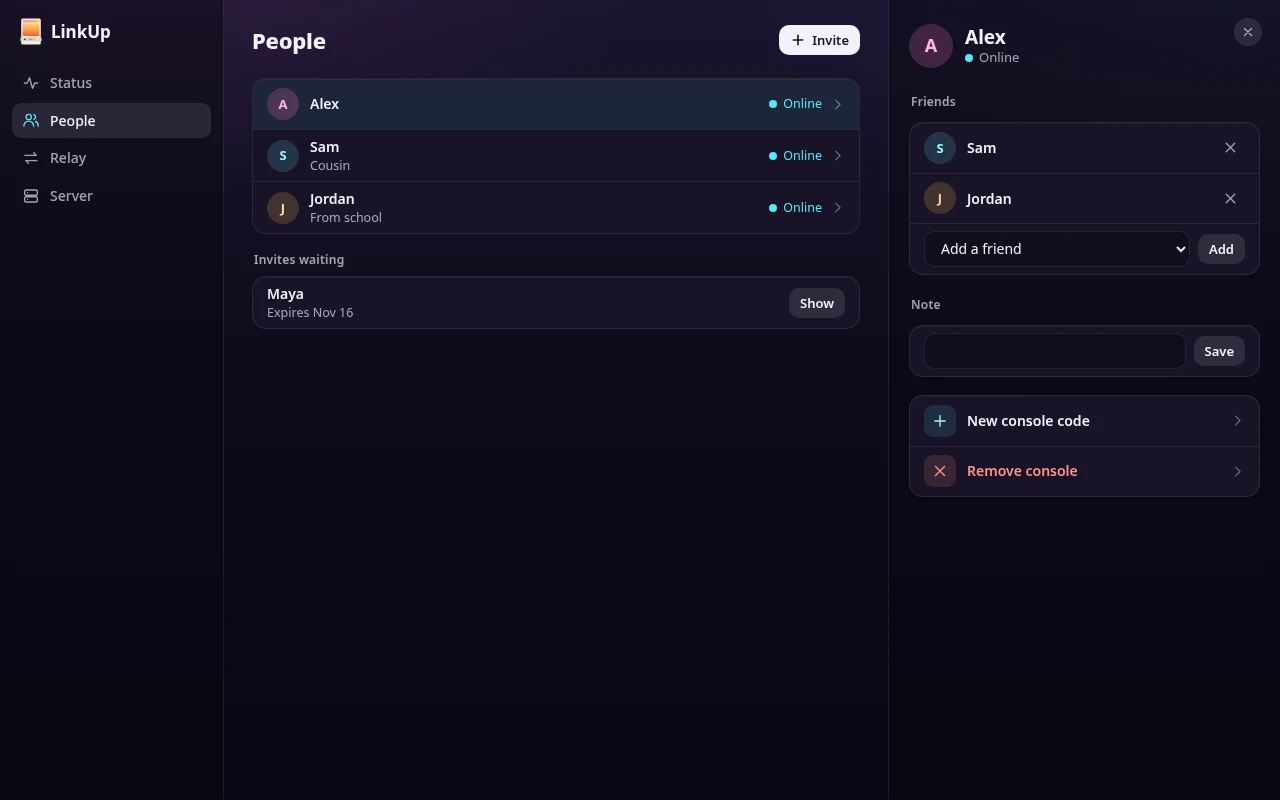
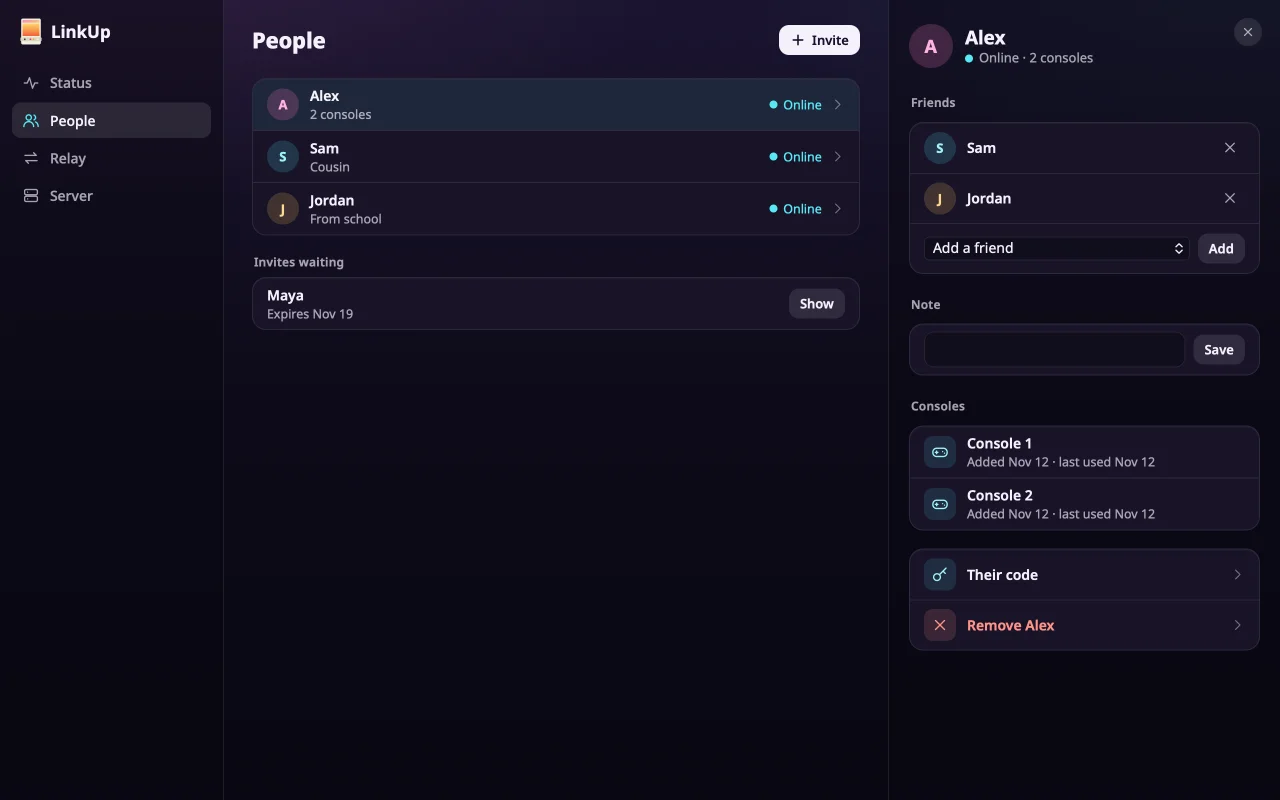
README: the People picture shows one person on two consoles
The computer-width picture still showed New console code and Remove console, which
v0.1.3 replaced. It is retaken from a server built from main, with the same made-up
people: Alex now shows 2 consoles, and Alex's page has Consoles, Their code and Remove
Alex. The phone picture shows only the list and stays as it is.

diff --git a/README.md b/README.md
@@ -17,7 +17,7 @@ nobody can promise it has no holes. Keep it up to date, and read [What it holds]
 |---|---|---|
 | ![First run: the owner sets the password](docs/media/admin-first-run-phone.webp) | ![People: three people and an invite waiting](docs/media/admin-people-phone.webp) | ![Relay: the one line to forward on the router](docs/media/admin-relay-phone.webp) |
 
-![People on a computer, with one person's friends beside the list](docs/media/admin-people.webp)
+![People on a computer, with one person's friends and consoles beside the list](docs/media/admin-people.webp)
 
 Playing happens on the console. The player's guide is
 [LinkUp on CabinetOS's wiki](https://cabinetos.mmagtech.com/wiki/linkup.html).
